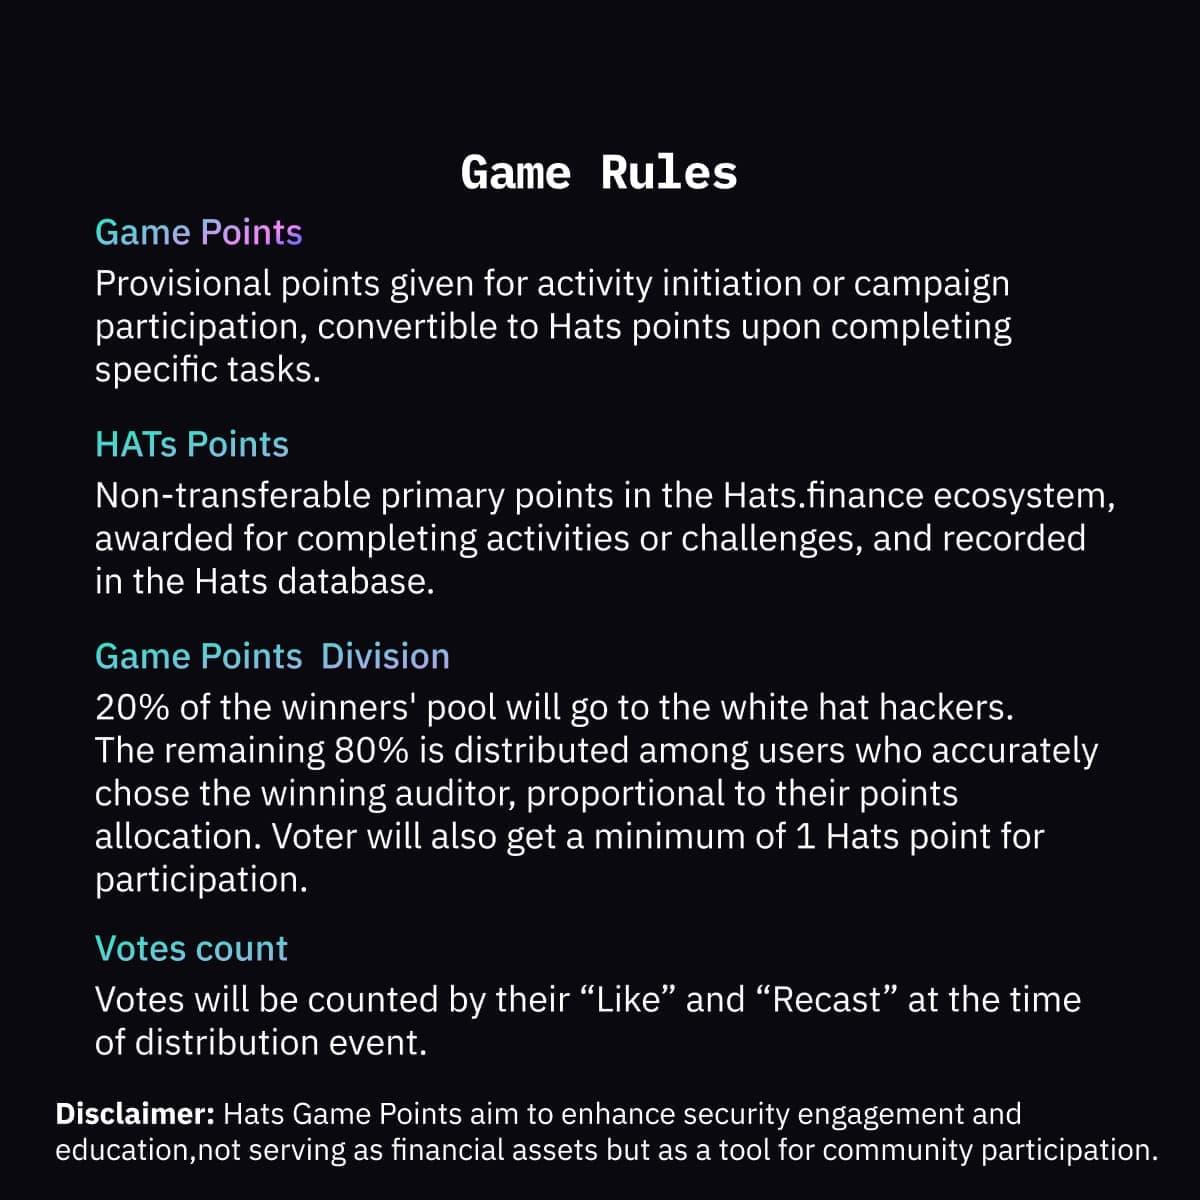
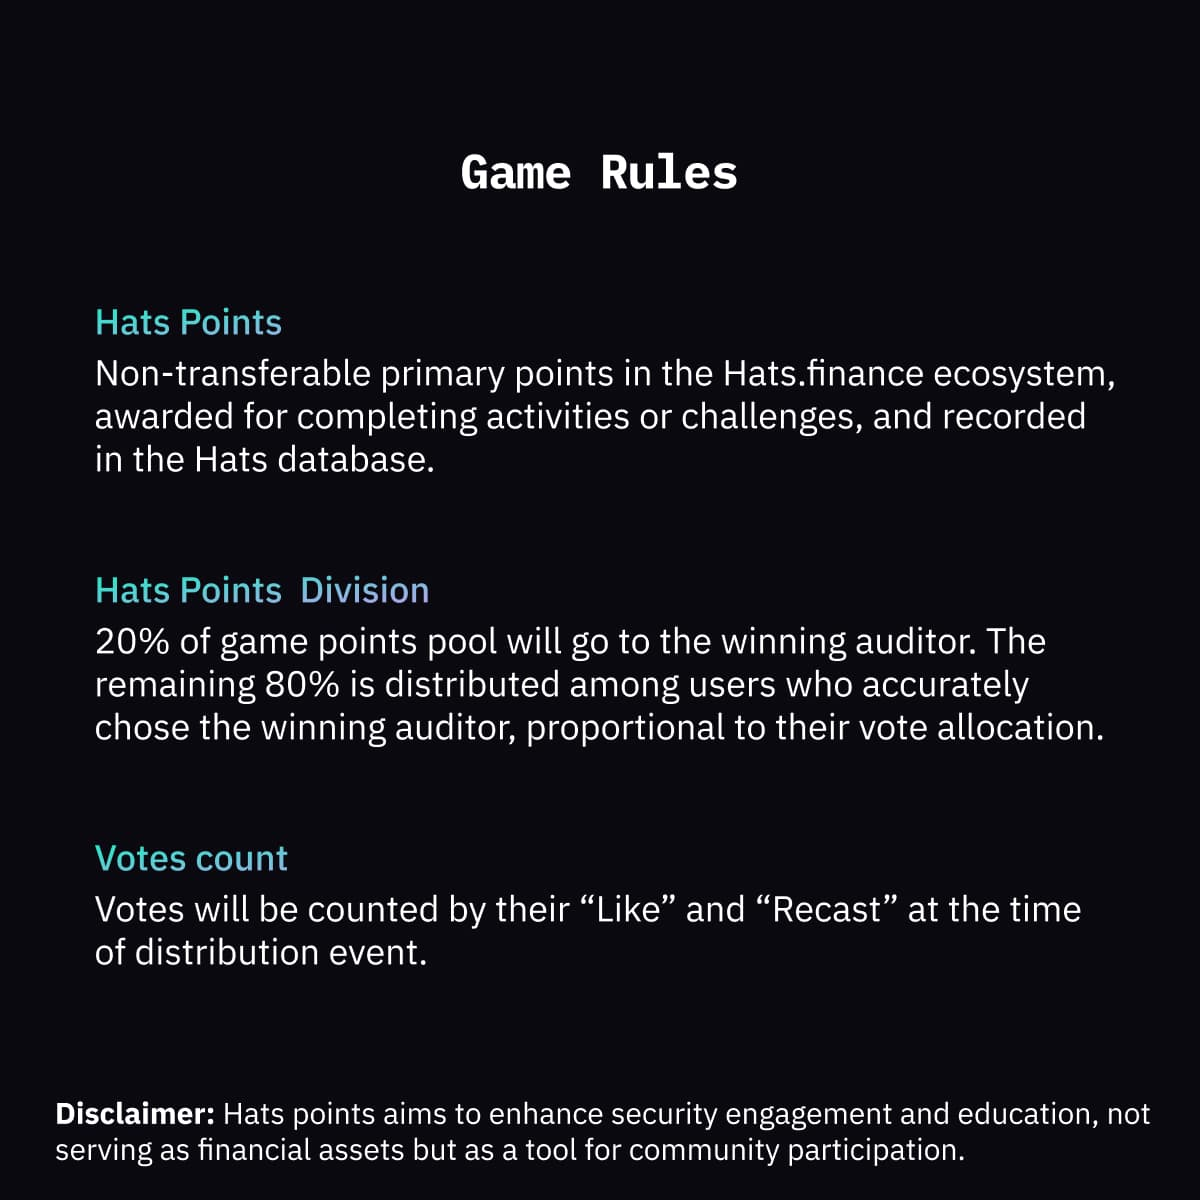
new images and changes

diff --git a/src/app/game/voted/route.tsx b/src/app/game/voted/route.tsx
@@ -36,9 +36,9 @@ export async function GET(request: Request) {
     (
       <div style={{ display: "flex", position: "relative", width: 1000, height: 1000, backgroundColor: COLORS.background }}>
         {/* POINTS */}
-        {/* <p style={{ color: "white", fontSize: "30px", position: "absolute", top: 10, left: 40 }}>
-          Game points: {getGamePoints(farcasterUser)}
-        </p> */}
+        <p style={{ color: "white", fontSize: "30px", position: "absolute", top: 10, left: 40 }}>
+          Voting power: {getGamePoints(farcasterUser)}
+        </p>
         <p style={{ color: "white", fontSize: "30px", position: "absolute", top: 10, right: 40 }}>
           HATs points: {farcasterUser?.hatsPoints ?? 0}
         </p>

diff --git a/src/app/game/audit/route.tsx b/src/app/game/audit/route.tsx
@@ -42,7 +42,7 @@ export async function GET(request: Request) {
       <div style={{ display: "flex", position: "relative", width: 1000, height: 1000, backgroundColor: COLORS.background }}>
         {/* POINTS */}
         <p style={{ color: "white", fontSize: "30px", position: "absolute", top: 10, left: 40 }}>
-          Game points: {getGamePoints(farcasterUser)}
+          Voting power: {getGamePoints(farcasterUser)}
         </p>
         <p style={{ color: "white", fontSize: "30px", position: "absolute", top: 10, right: 40 }}>
           HATs points: {farcasterUser?.hatsPoints ?? 0}

diff --git a/src/app/game/start/route.tsx b/src/app/game/start/route.tsx
@@ -32,7 +32,7 @@ export async function GET(request: Request) {
           src={`${config.hostURL}/assets/images/${frameImage}.jpg`}
         />
         <p style={{ color: "white", fontSize: "30px", position: "absolute", top: 10, left: 40 }}>
-          Game points: {getGamePoints(farcasterUser)}
+          Voting power: {getGamePoints(farcasterUser)}
         </p>
         <p style={{ color: "white", fontSize: "30px", position: "absolute", top: 10, right: 40 }}>
           HATs points: {farcasterUser?.hatsPoints ?? 0}

diff --git a/src/app/game/rules/route.tsx b/src/app/game/rules/route.tsx
@@ -23,7 +23,7 @@ export async function GET(request: Request) {
           src={`${config.hostURL}/assets/images/rules.jpg`}
         />
         <p style={{ color: "white", fontSize: "30px", position: "absolute", top: 10, left: 40 }}>
-          Game points: {getGamePoints(farcasterUser)}
+          Voting power: {getGamePoints(farcasterUser)}
         </p>
         <p style={{ color: "white", fontSize: "30px", position: "absolute", top: 10, right: 40 }}>
           HATs points: {farcasterUser?.hatsPoints ?? 0}

diff --git a/src/app/game/steps/route.tsx b/src/app/game/steps/route.tsx
@@ -23,7 +23,7 @@ export async function GET(request: Request) {
           src={`${config.hostURL}/assets/images/steps.jpg`}
         />
         <p style={{ color: "white", fontSize: "30px", position: "absolute", top: 10, left: 40 }}>
-          Game points: {getGamePoints(farcasterUser)}
+          Voting power: {getGamePoints(farcasterUser)}
         </p>
         <p style={{ color: "white", fontSize: "30px", position: "absolute", top: 10, right: 40 }}>
           HATs points: {farcasterUser?.hatsPoints ?? 0}

diff --git a/src/app/game/hackers/route.tsx b/src/app/game/hackers/route.tsx
@@ -48,7 +48,7 @@ export async function GET(request: Request) {
         }}>
         {/* POINTS */}
         <p style={{ color: "white", fontSize: "30px", position: "absolute", top: 10, left: 40 }}>
-          Game points: {getGamePoints(farcasterUser)}
+          Voting power: {getGamePoints(farcasterUser)}
         </p>
         <p style={{ color: "white", fontSize: "30px", position: "absolute", top: 10, right: 40 }}>
           HATs points: {farcasterUser?.hatsPoints ?? 0}

diff --git a/src/consts/gamePoints.ts b/src/consts/gamePoints.ts
@@ -1,2 +1,2 @@
-export const LIKE_POINTS = 5;
-export const RECAST_POINTS = 50;
+export const LIKE_POINTS = 10;
+export const RECAST_POINTS = 10;
